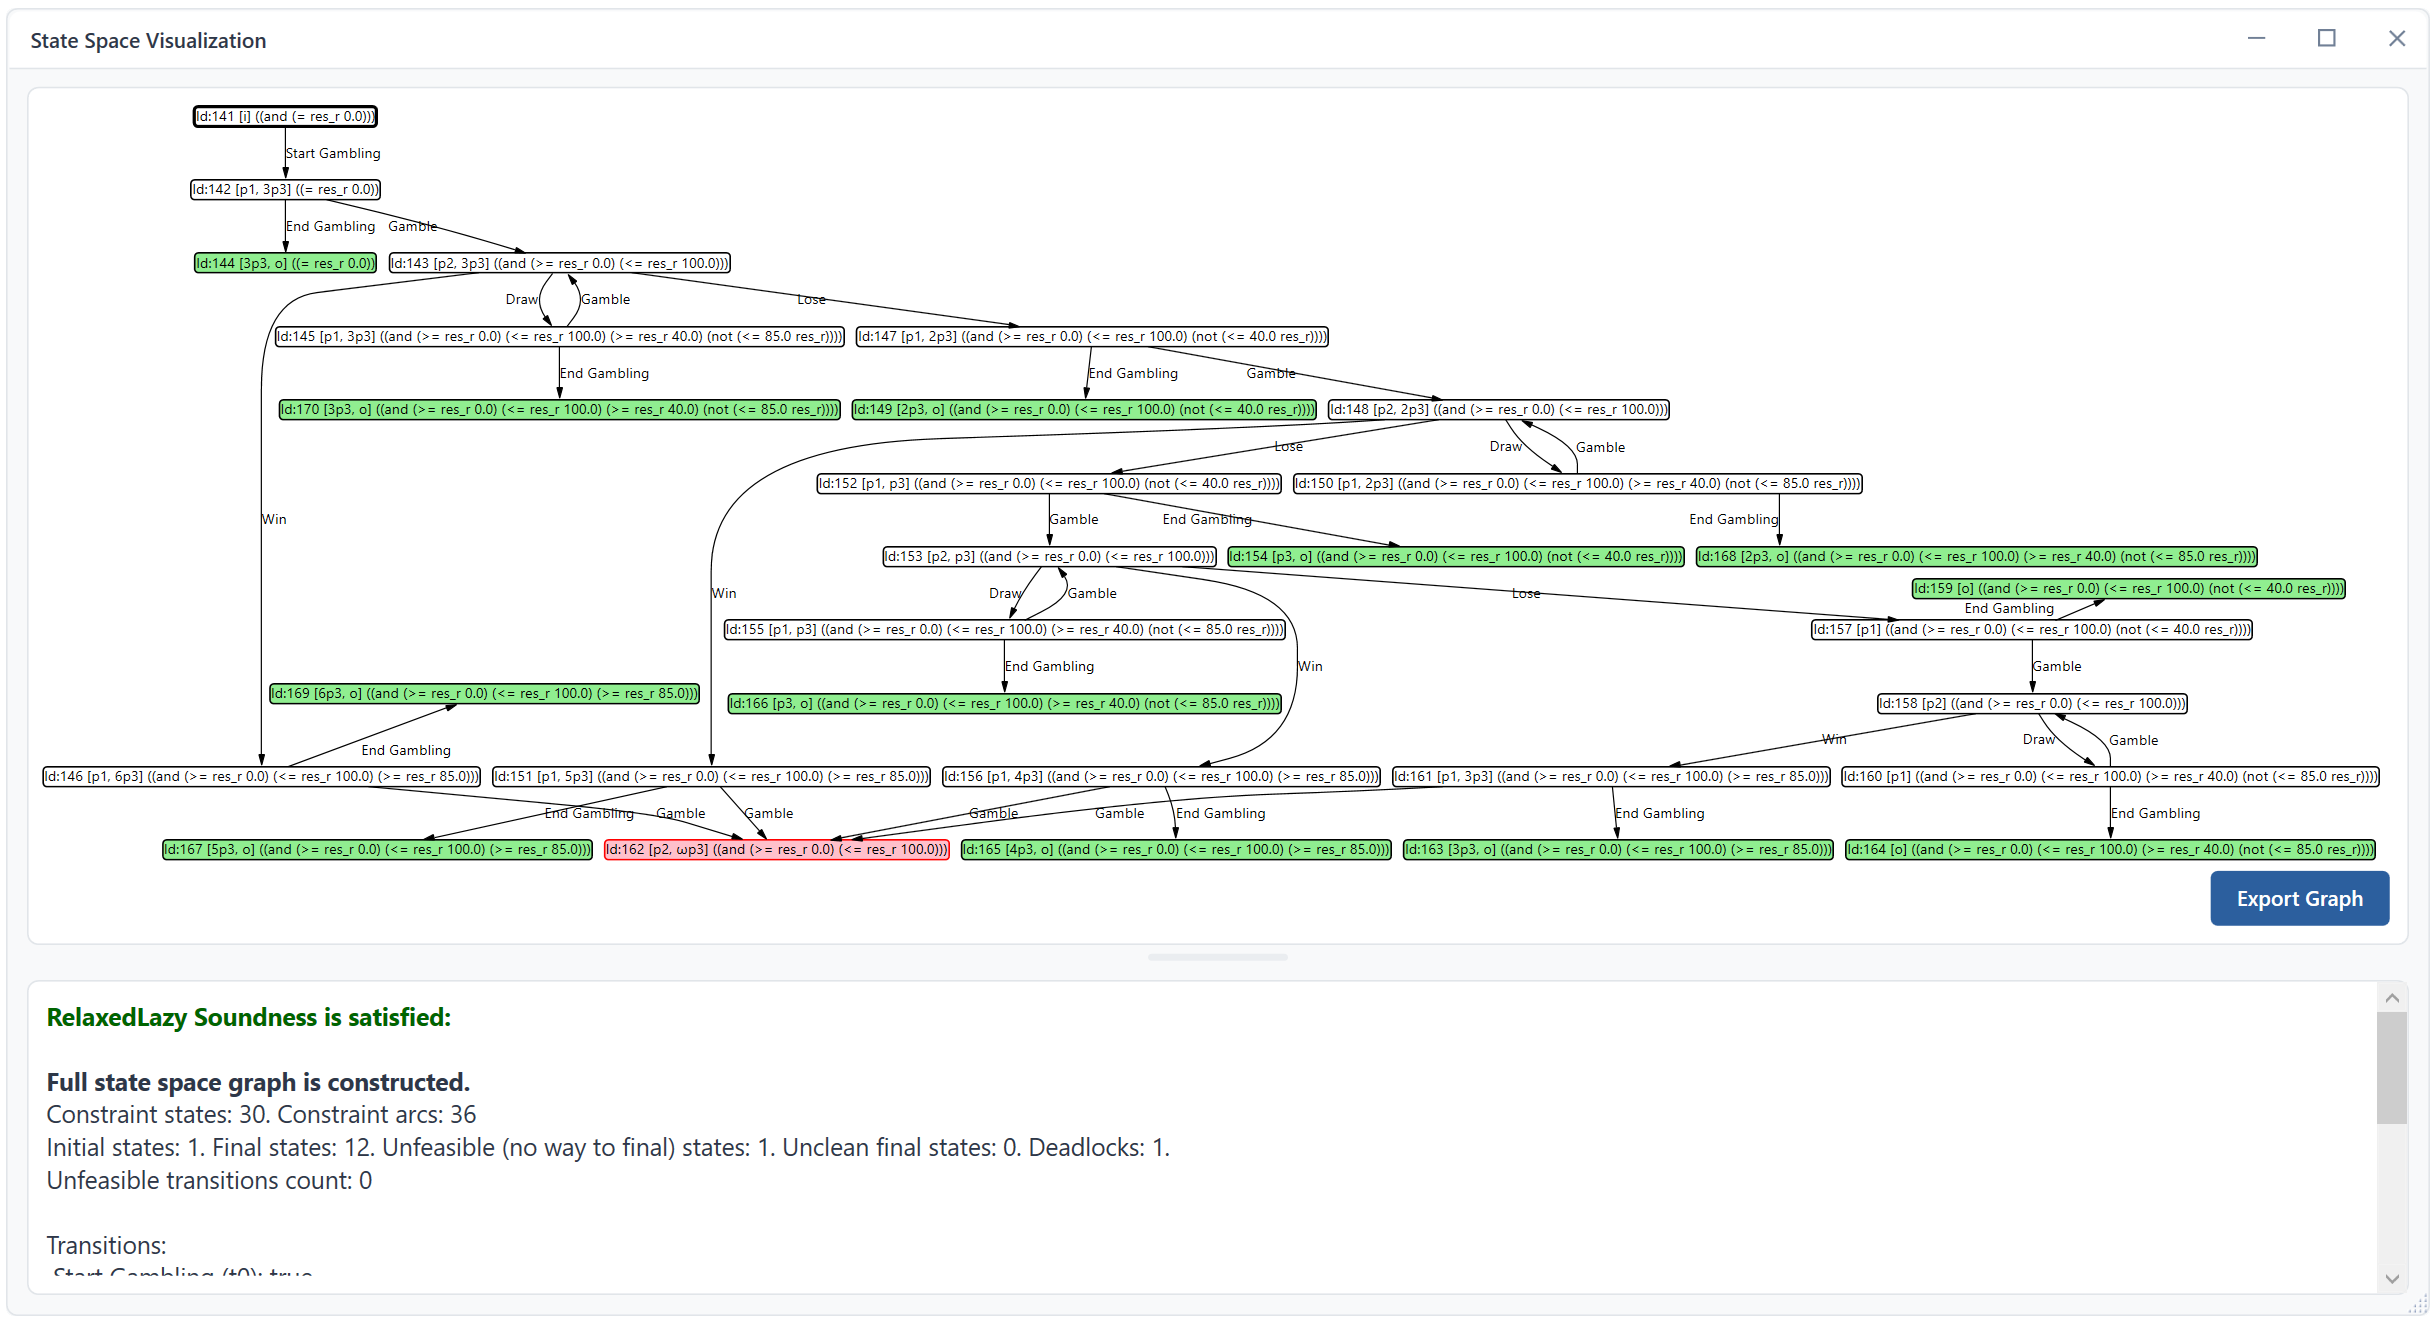
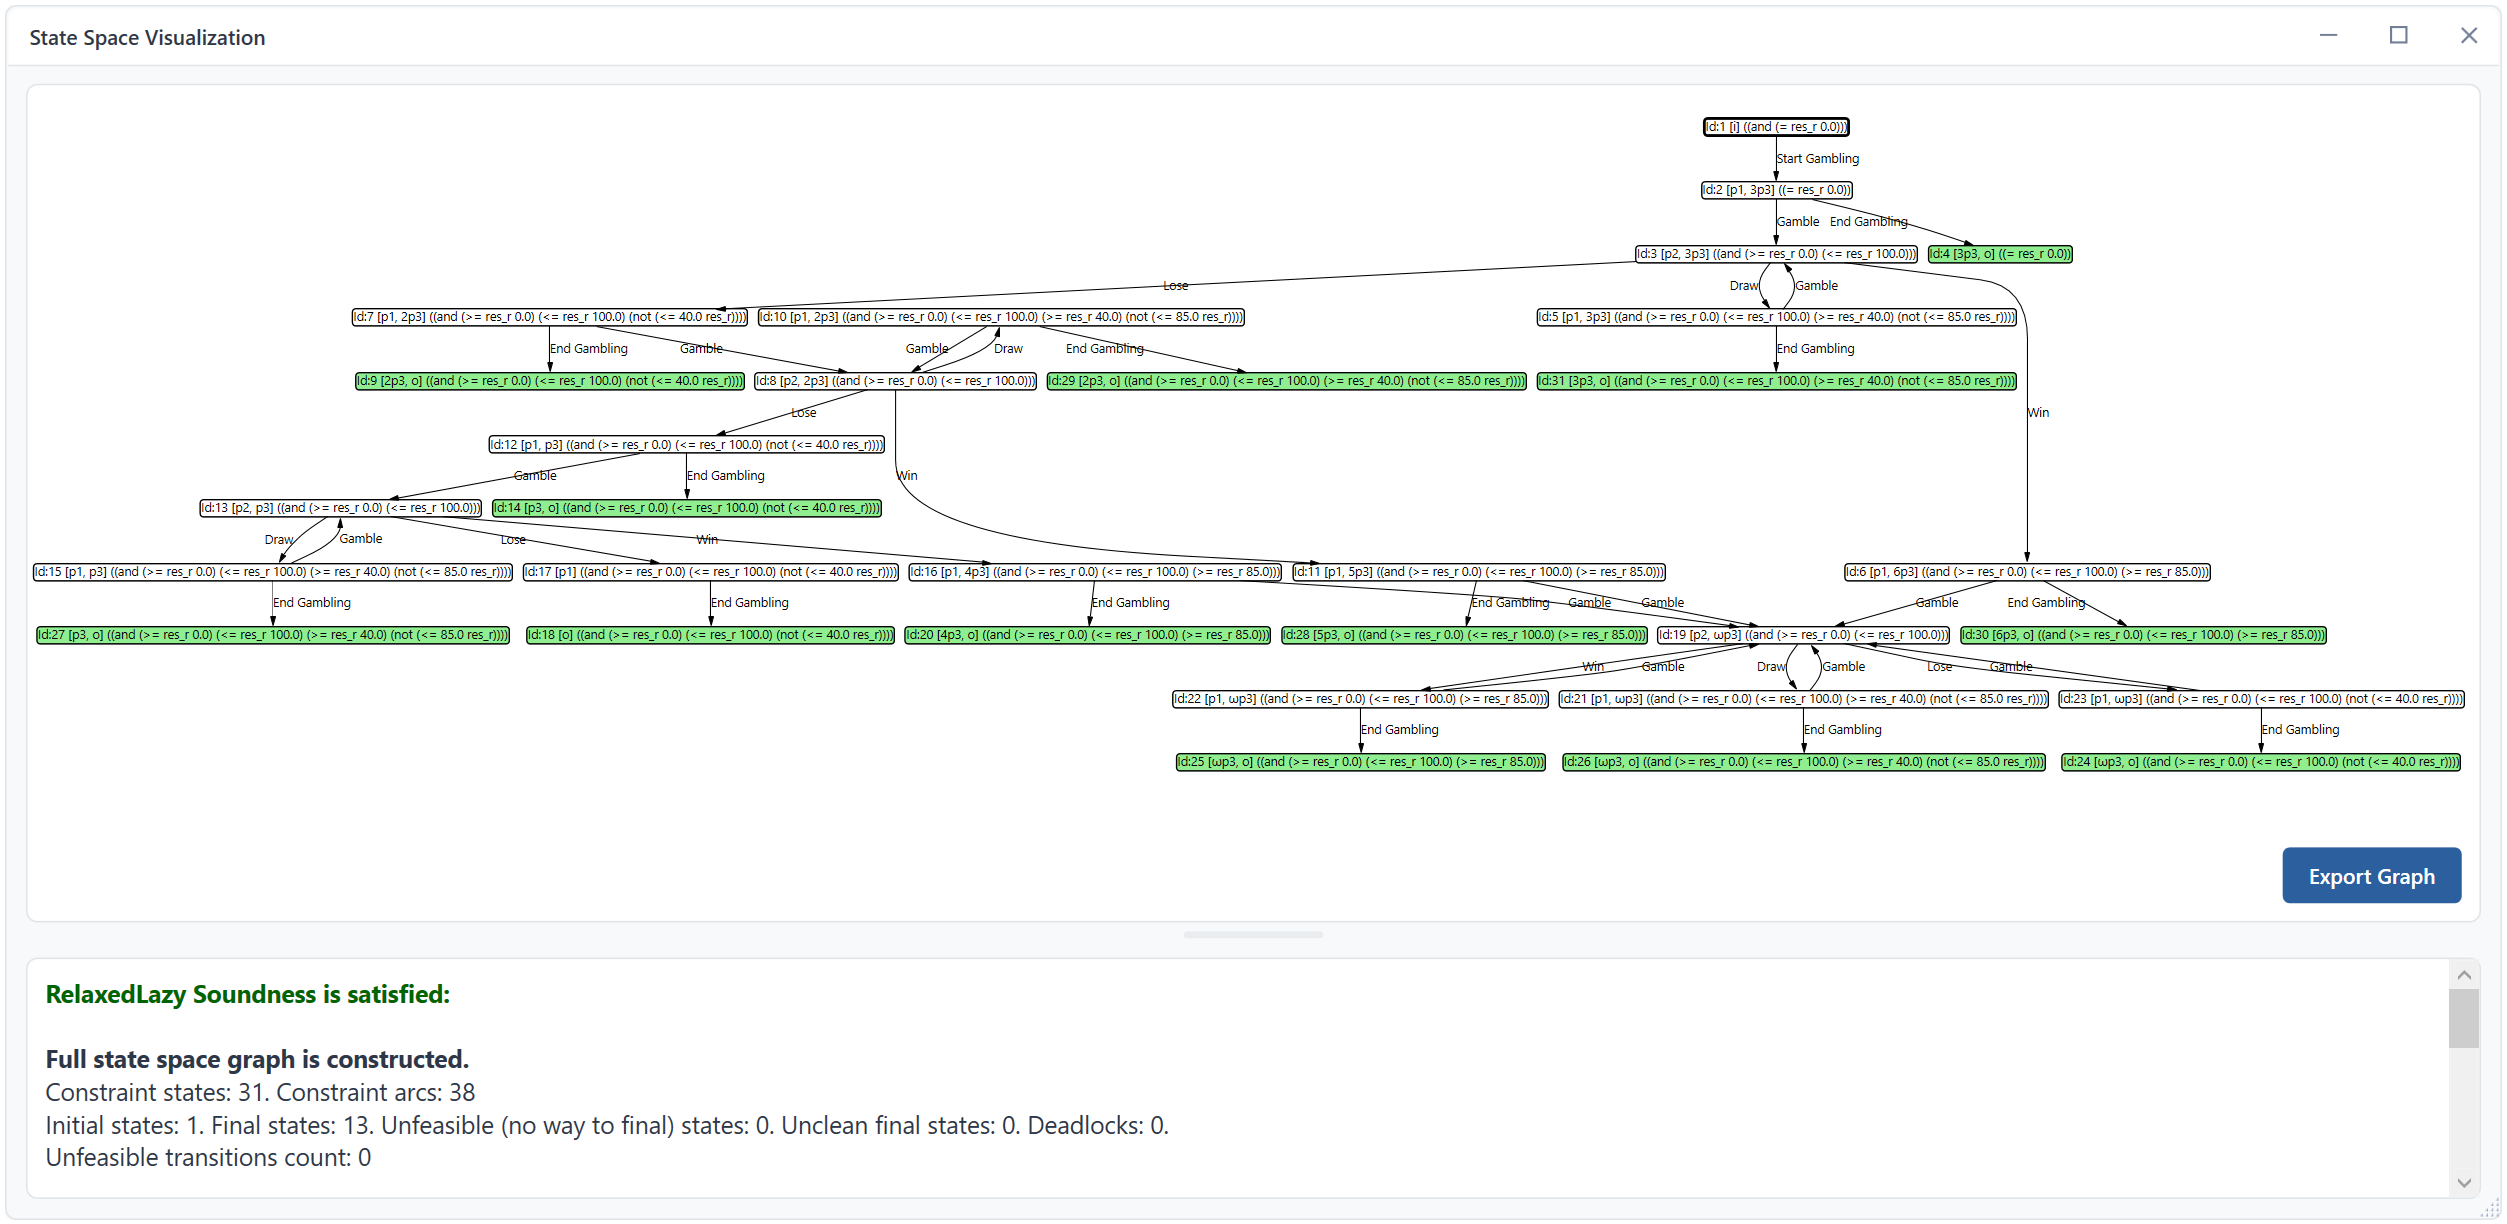
Updated readme

Changed region(s): [[0.0, 0.0, 0.9984, 0.8072], [0.0, 0.8072, 0.468, 0.9624], [0.0, 0.7451, 0.1872, 0.7761]]

diff --git a/DPN.Parsers/PnmlxParser.cs b/DPN.Parsers/PnmlxParser.cs
@@ -1,4 +1,5 @@
-using System.Xml.Linq;
+using System.Runtime.Serialization;
+using System.Xml.Linq;
 using DPN.Models;
 using DPN.Models.Abstractions;
 using DPN.Models.DPNElements;
@@ -116,7 +117,7 @@ namespace DPN.Parsers
 			if (!validationResult.IsValid)
 			{
 				var errorText = string.Join(Environment.NewLine, validationResult.Errors.Select(e => $"{e.Severity.ToString()}: {e.Message}"));
-				//throw new SerializationException("Error occurred on deserializing:\n" + errorText);
+				throw new SerializationException("Error occurred on deserializing:\n" + errorText);
 			}
 
 			var dpn = new DataPetriNet(context);

diff --git a/README.md b/README.md
@@ -49,13 +49,13 @@ For resource-oriented models, it is more convenient to use **relaxed-lazy soundn
 
 The implemented relaxed-lazy soundness verification procedure consists of two steps:
 1. Constructing an ACG.
-2. Analyzing the ACG for the relaxed-lazy soundness properties.
+2. Analyzing the ACG for the relaxed-lazy soundness properties mentioned above.
 
 ## Interoperability
 
-DPN can be imported/exported in the PNMLX format. The XSD schema for this format is located at `DPN.Parsers/XsdSchemas/pnml.xsd`.
+DPN can be imported/exported in the PNMLX format. The XSD schema for this format is located at `DPN.Parsers/XsdSchemas/pnml.xsd`. Examples can be found at `DPN.Tests\TestData\`.
 
-Abstract state space structures (ARG/ACG/ACT) can be imported/exported in the ASML format. The XSD schema for this format is located at `DPN.Parsers/XsdSchemas/asml.xsd`.
+Abstract state space structures (ARG/ACG/ACT) can be imported/exported in the GraphML format. The XSD schema for this format is located at `DPN.Parsers/XsdSchemas/graphml.xsd`. Examples can be found at `DPN.Tests\TestData\`.
 
 Sample DPNs and abstract state space structures can be found at `Samples/`.
 
@@ -105,7 +105,7 @@ For instance, final nodes are colored in green, nodes with no path to finals are
 
 Allows verification of relaxed lazy soundness (`Verify` $\rightarrow$ `RelaxedLazy Soundness`) and classical soundness (`Verify`$\rightarrow$`Classical Soundness`). 
 
-If a model is classically unsound, it can be automatically repaired (`Repair` $\rightarrow$ `Classical Soundness`).
+If a model is classically unsound but has at least one path to the final state, it can be repaired with an implemented soundness repair algorithm (`Repair` $\rightarrow$ `Classical Soundness`).
 
 ### Model Tab
 
@@ -150,6 +150,4 @@ A relaxed-lazy sound DPN representing gambling:
 
 Result of its relaxed-lazy soundness verification:
 <kbd>![alt text](https://github.com/SuvorovNM/DPN-Soundness-Verification/blob/master/img/GamblingDPN-Verification.png?raw=true)</kbd>
-
-The model has a deadlock, but relaxed lazy soundness allows models to have deadlocks. The tool still highlights them, if they are detected, to illustrate potential errors.
 
